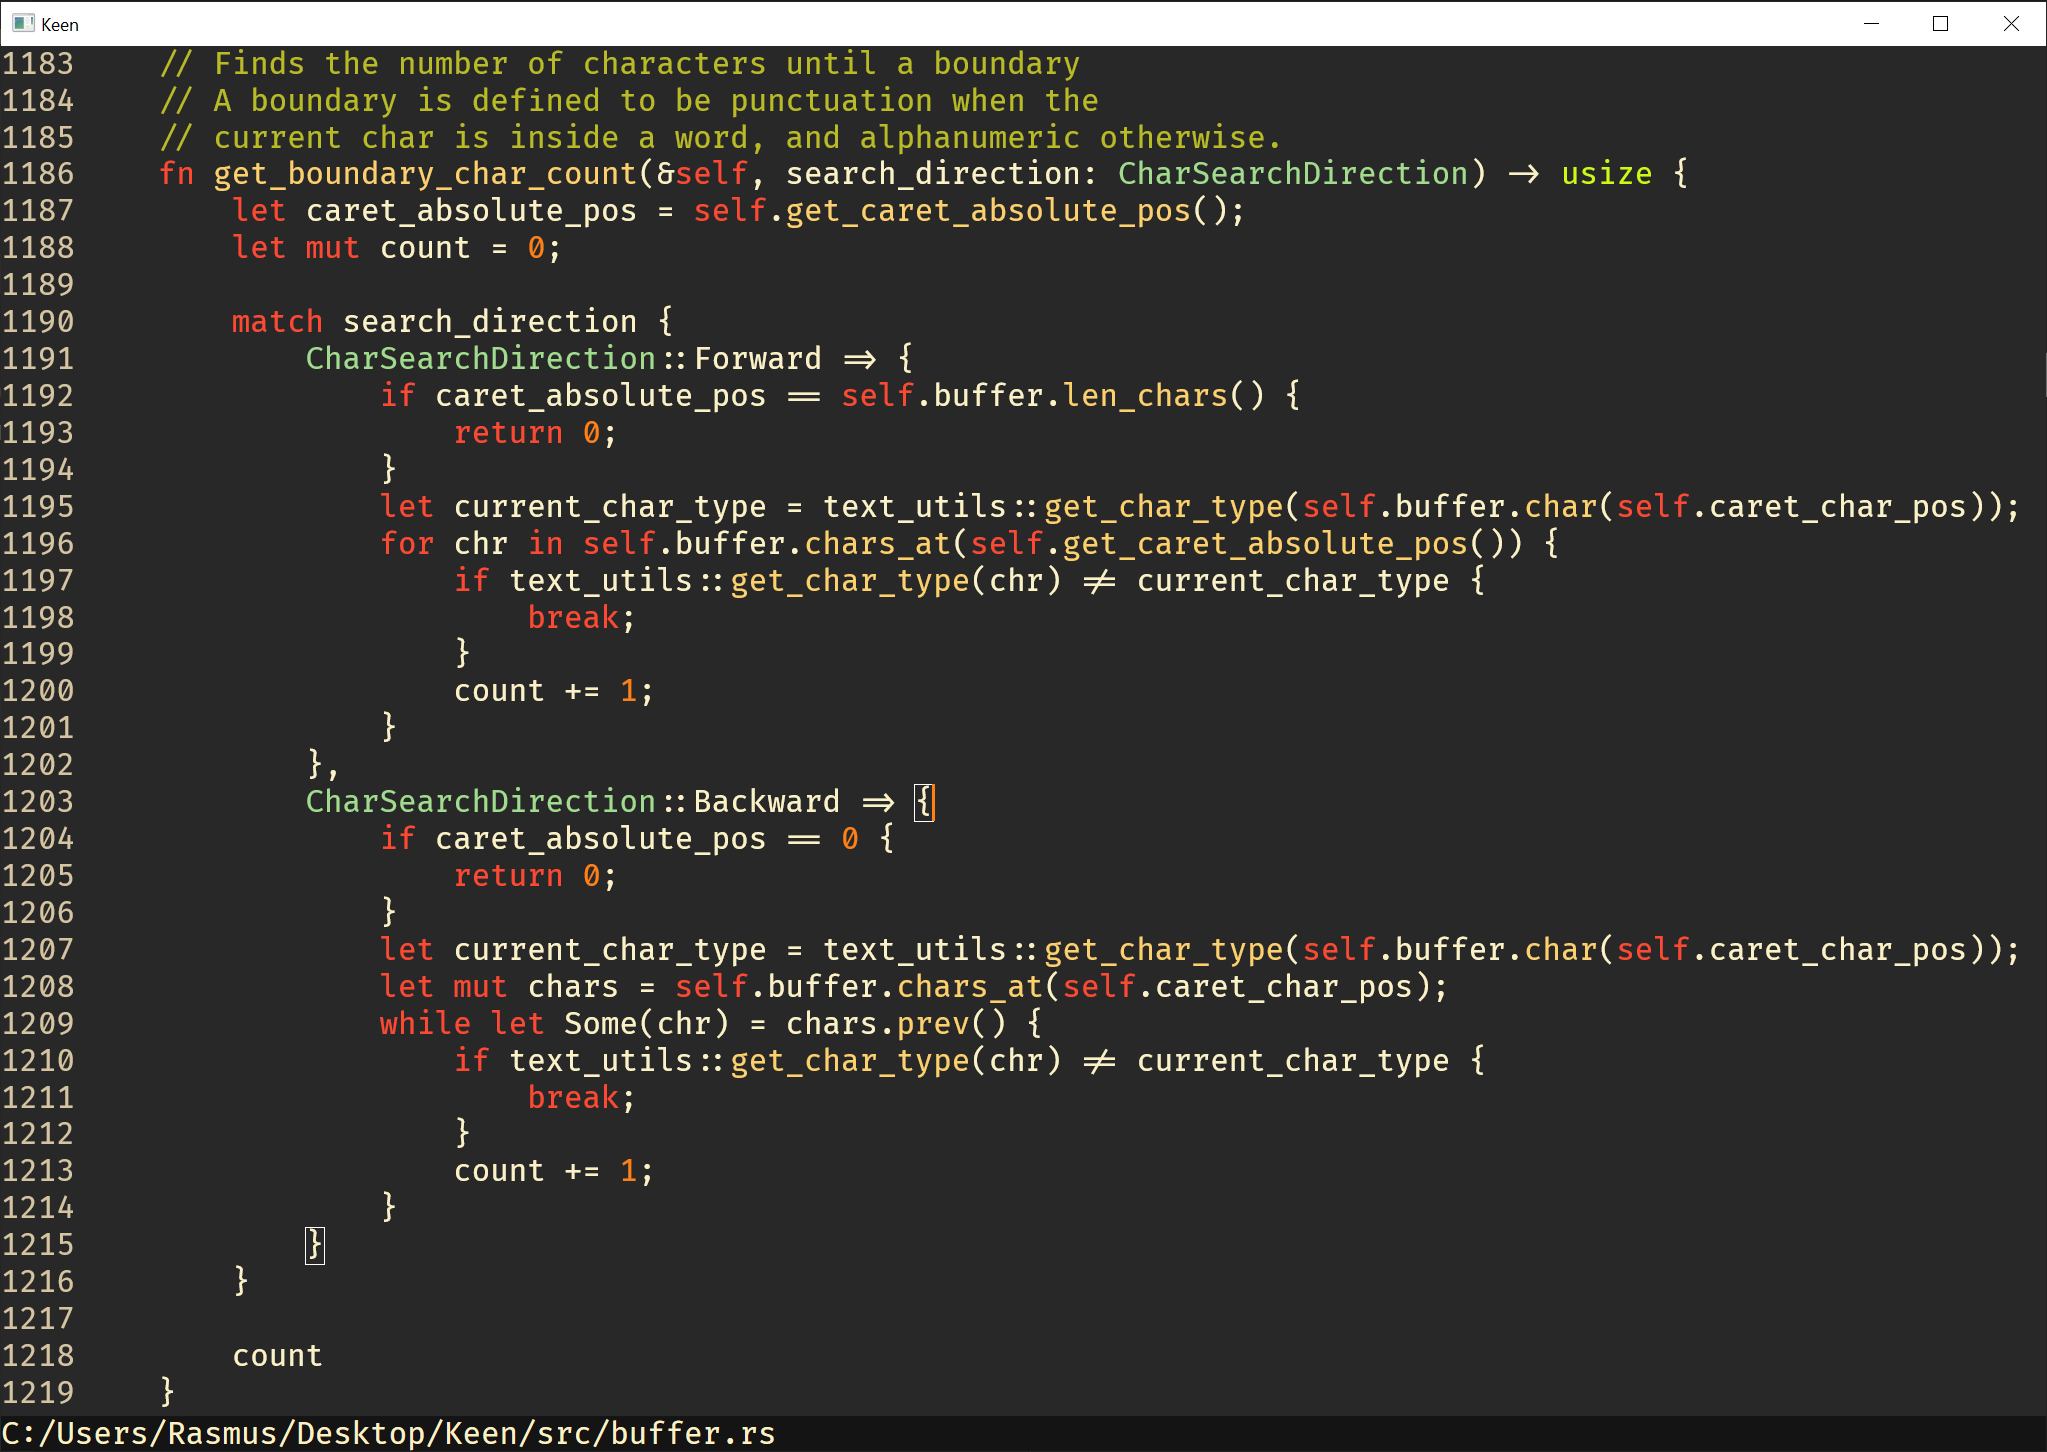
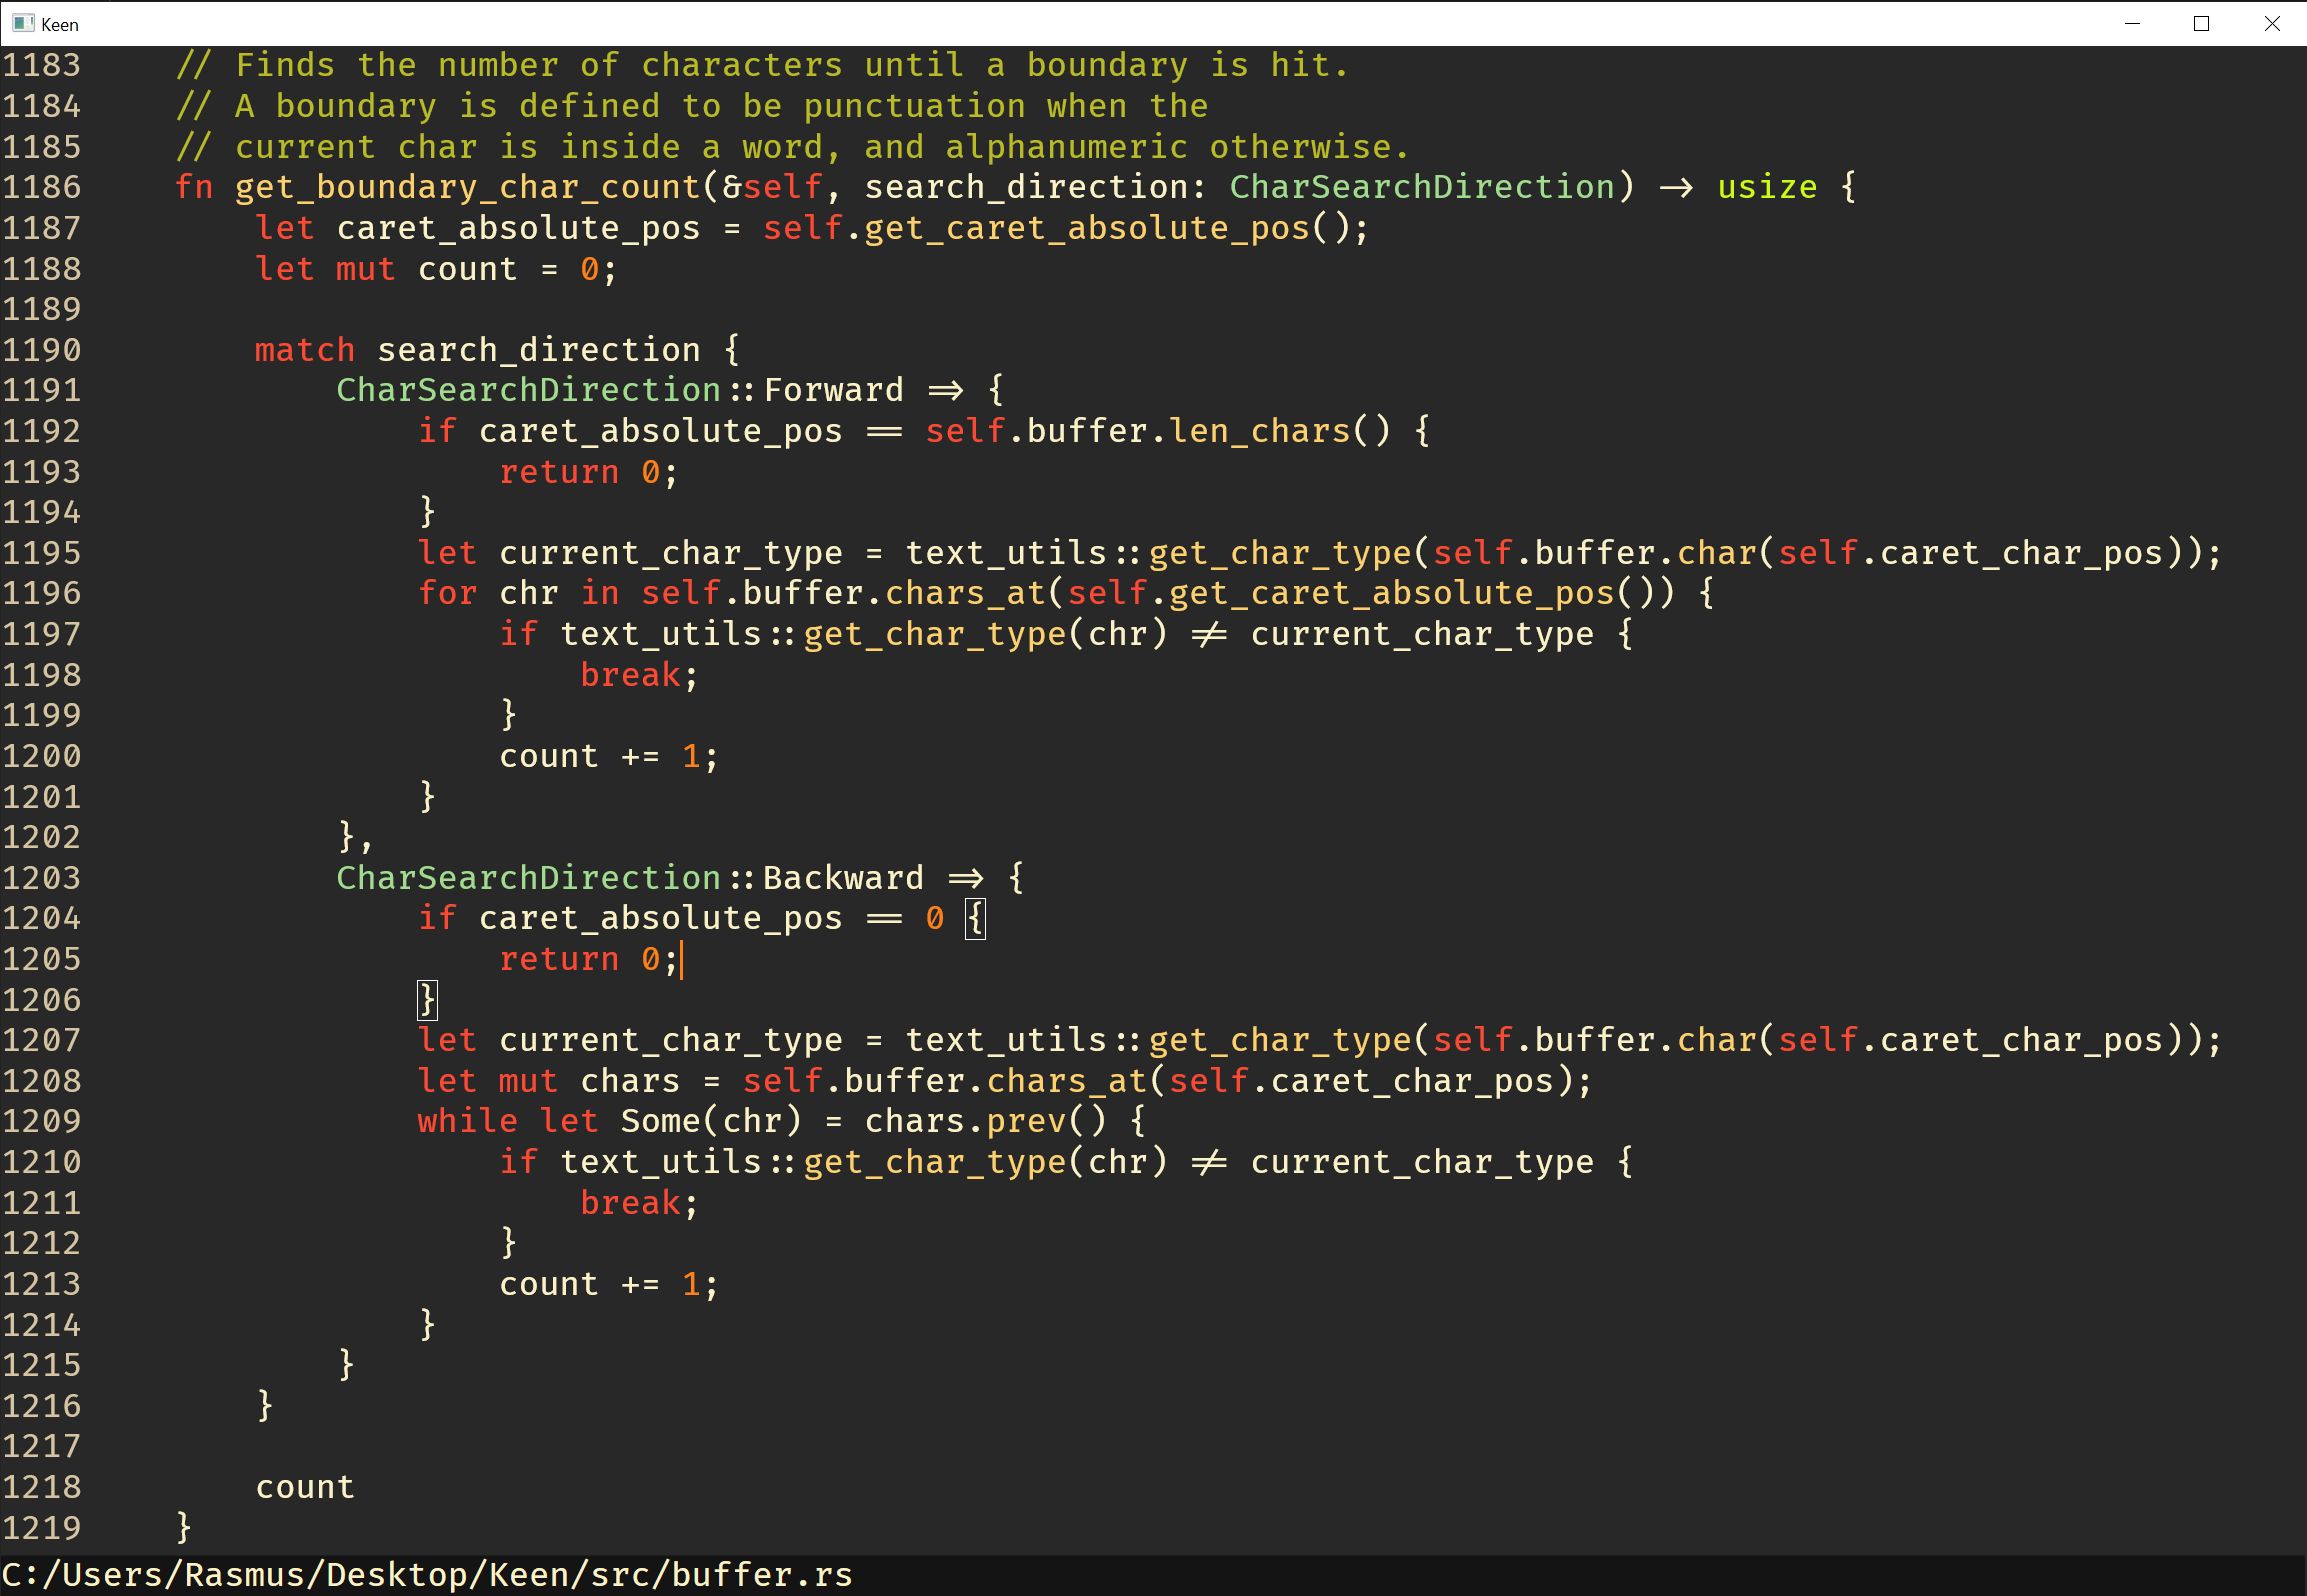
Modified screenshot

diff --git a/src/buffer.rs b/src/buffer.rs
@@ -1180,7 +1180,7 @@ impl TextBuffer {
         offset
     }
 
-    // Finds the number of characters until a boundary
+    // Finds the number of characters until a boundary is hit.
     // A boundary is defined to be punctuation when the
     // current char is inside a word, and alphanumeric otherwise.
     fn get_boundary_char_count(&self, search_direction: CharSearchDirection) -> usize {
